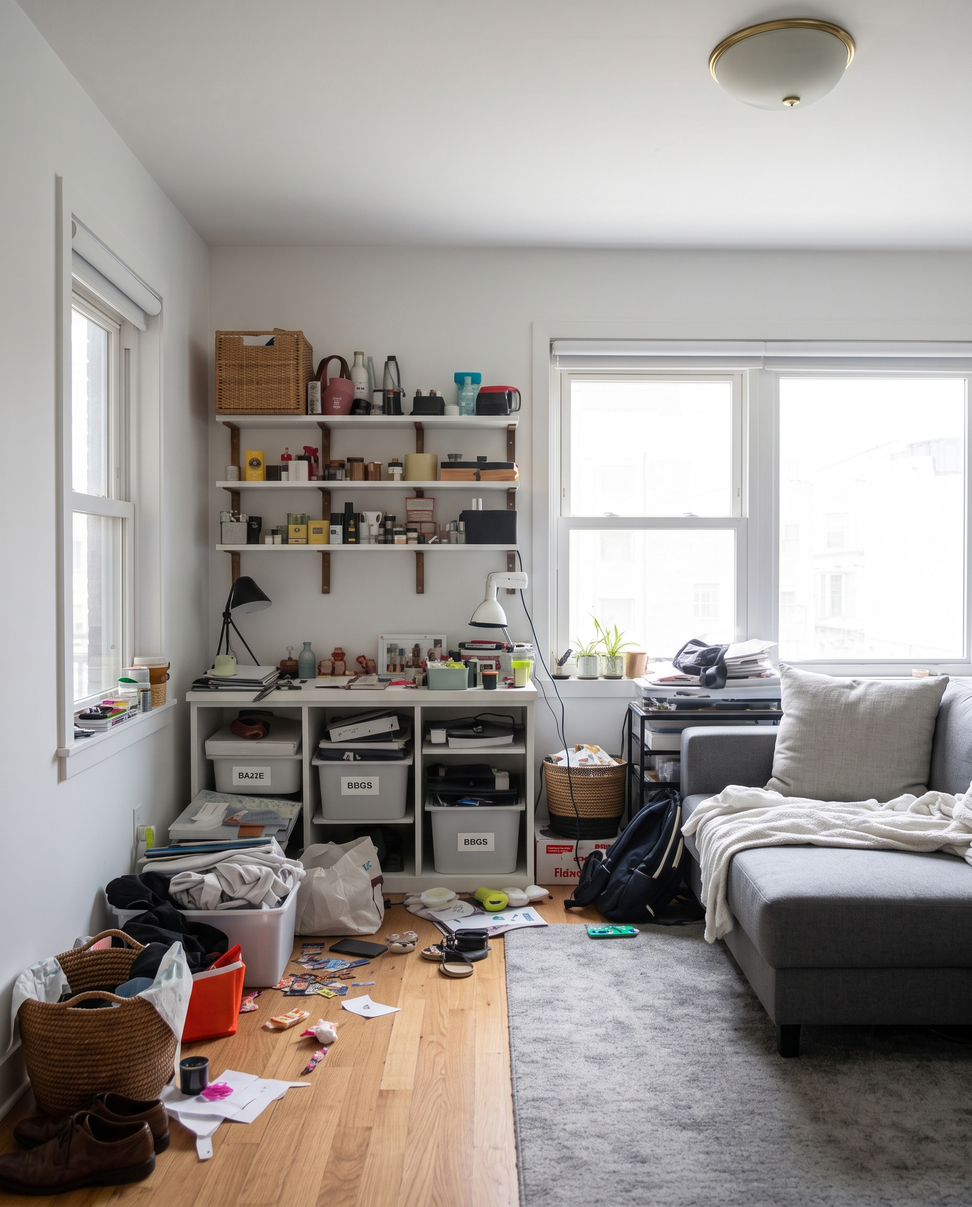
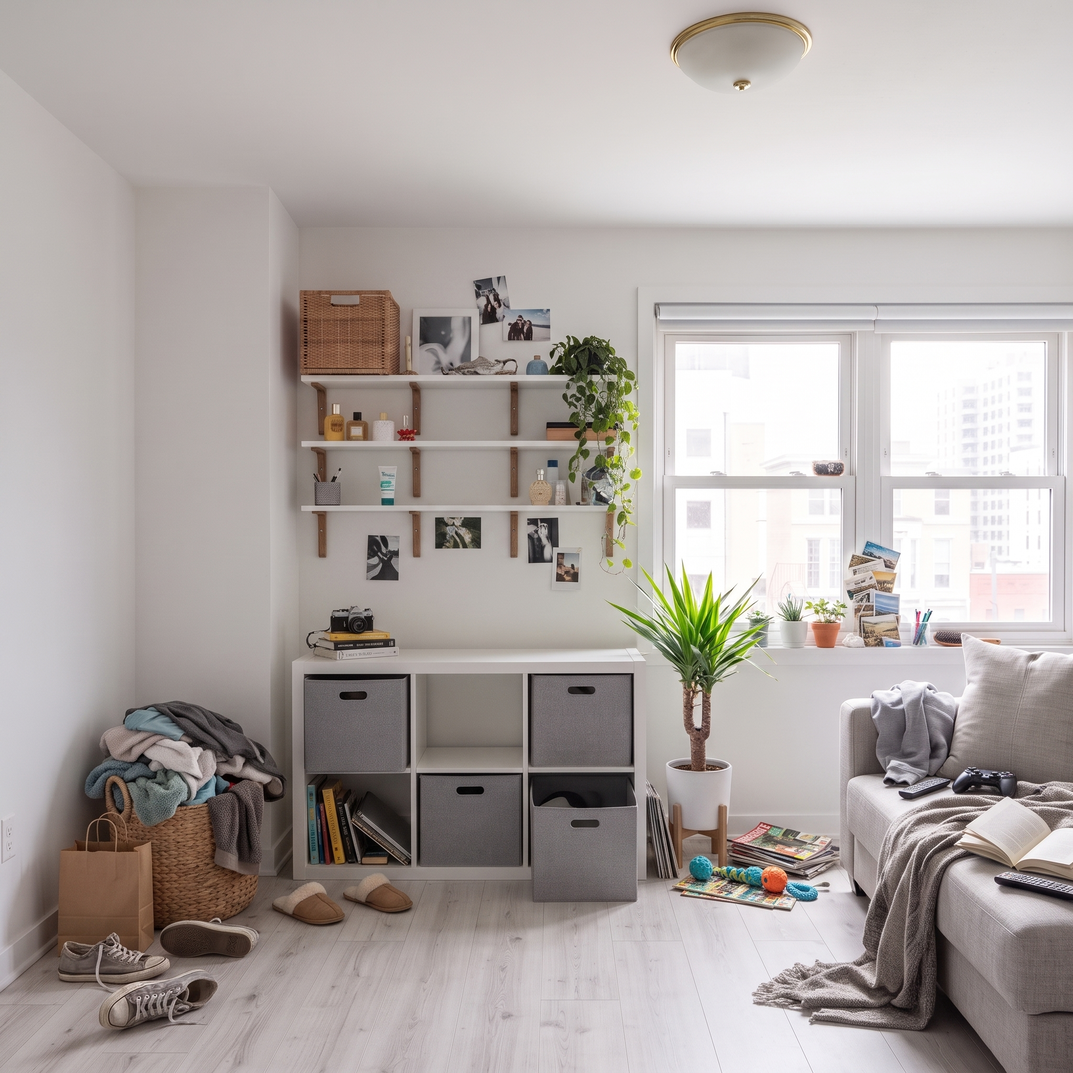
Changed photo and removed review

diff --git a/src/data/site.js b/src/data/site.js
@@ -29,13 +29,6 @@ export const site = {
   responseTime: 'within 1–2 business days',
 };
 
-export const testimonials = [
-  {
-    quote: 'Really professional and genuinely friendly. Couldn’t ask for more.',
-    name: 'Natasha',
-  },
-];
-
 export const nav = [
   { href: '/', label: 'Home' },
   { href: '/about/', label: 'About Us' },
